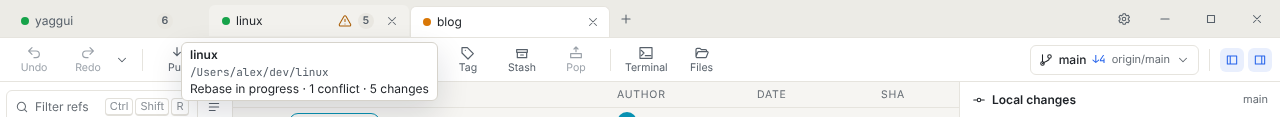
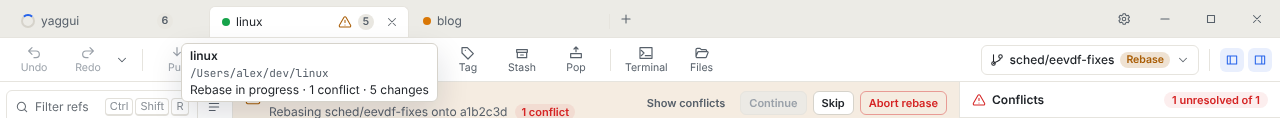
docs(website): fact-check history, remotes and inspect pages against the code
Claude-Session: https://claude.ai/code/session_01V1i14To8BKiPDU9DUqr9cU

diff --git a/e2e/docs-screenshots/zz-debug.spec.ts b/e2e/docs-screenshots/zz-debug.spec.ts
@@ -1,0 +1,14 @@
+import { test } from '@playwright/test';
+import { openRepo, start } from './capture';
+test('dbg', async ({ page }) => {
+  await start(page);
+  await openRepo(page);
+  const tree = page.getByRole('tree');
+  const s = tree.getByRole('treeitem', { name: /^Stashes/ });
+  if ((await s.getAttribute('aria-expanded')) !== 'true') await s.click();
+  await tree.getByRole('treeitem', { name: 'lanes', exact: true }).click();
+  const d = page.getByRole('region', { name: 'Stash details' });
+  await d.waitFor();
+  await page.waitForTimeout(500);
+  console.log(await d.getByRole('option').allTextContents());
+});

diff --git a/e2e/docs-screenshots/repository-workspaces.spec.ts b/e2e/docs-screenshots/repository-workspaces.spec.ts
@@ -217,7 +217,8 @@ test('tabs-indicators', async ({ page }, testInfo) => {
   await page.keyboard.press('Control+T');
   await openRepo(page, /^blog\b/);
   // The tooltip of the active tab; a running fetch puts a spinner on the yaggui tab.
-  await page.getByRole('tab', { name: /^linux/ }).click();
+  await page.keyboard.press('Control+2');
+  await expect(page.getByRole('tab', { selected: true })).toHaveAccessibleName(/^linux/);
   await page.evaluate(() => window.__yagguiMock?.simulateOp(1, { stepMs: 10_000 }));
   await expect(page.getByRole('tab', { name: /^yaggui/ })).toHaveAccessibleName(
     /Fetch in progress/,

diff --git a/e2e/docs-screenshots/everyday.spec.ts b/e2e/docs-screenshots/everyday.spec.ts
@@ -212,7 +212,6 @@ test('stash-preview', async ({ page }, testInfo) => {
   await tree(page).getByRole('treeitem', { name: 'lanes', exact: true }).click();
   const details = page.getByRole('region', { name: 'Stash details' });
   await expect(details).toBeVisible();
-  await page.setViewportSize({ width: 1280, height: 620 });
   await page.mouse.move(0, 0);
   await capture(page, testInfo, 'stash-preview', details);
 });
